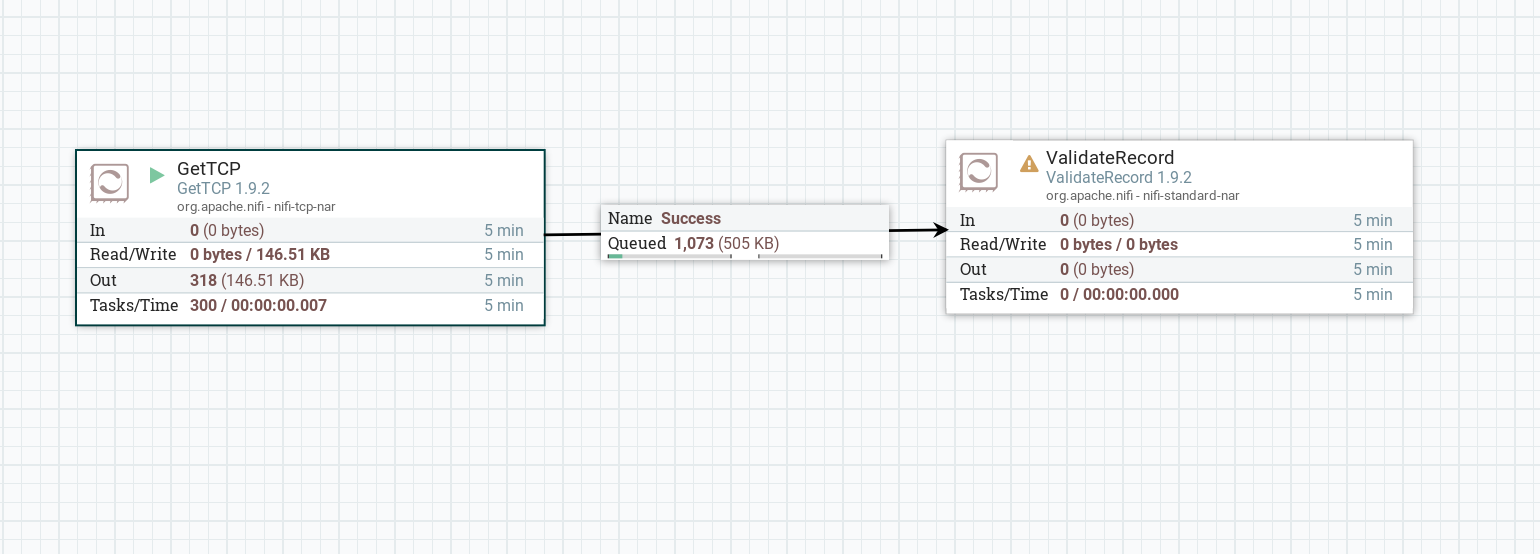
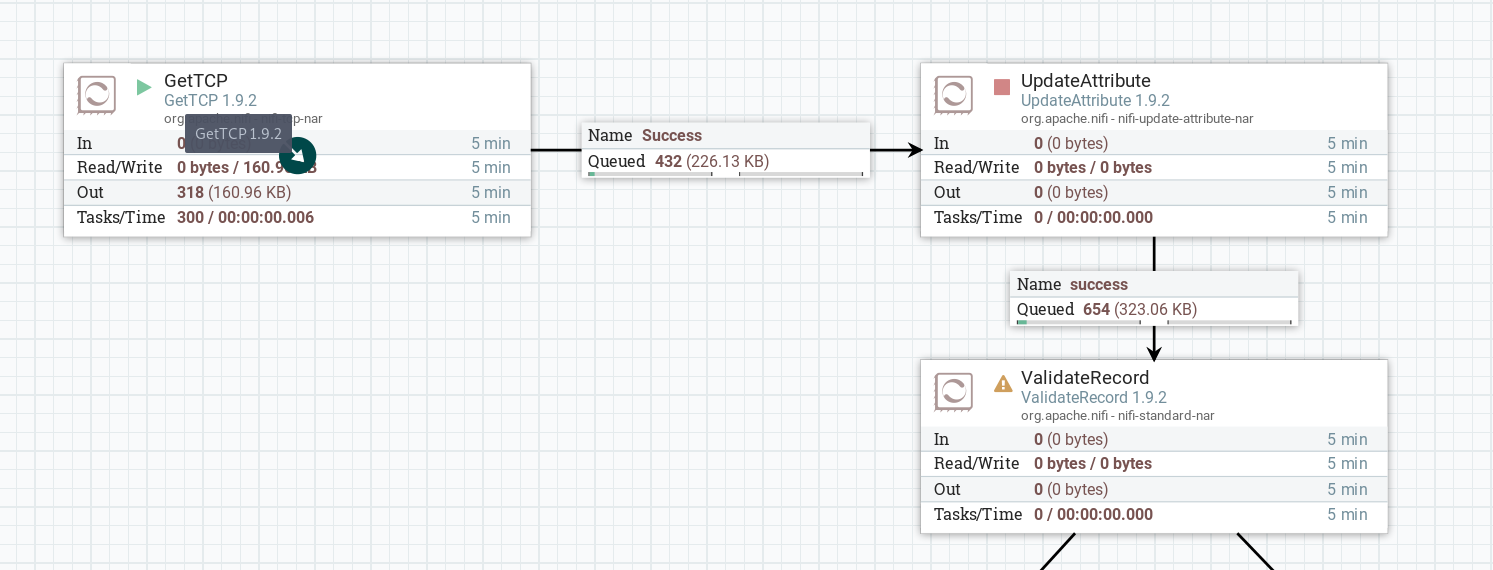
Update README

Changed region(s): [[0.0308, 0.0921, 0.9243, 1.0], [0.6778, 0.9819, 0.7086, 1.0]]

diff --git a/nifi-kafka-dev/README.md b/nifi-kafka-dev/README.md
@@ -24,7 +24,7 @@ Before you can start the lab, you have to complete the NiFi+Kafka install from t
    2. Create a `GetTCP` processor to read data from the socket
       1. Properties: `Endpoint List = localhost:SOCKER_PORT`, `End of message delimiter byte = 10`
       2. Settings: `Automatically terminate relationships = Partial`
-   3. Create a `ValidateRecord` processor
-   4. Link the `GetTCP` `Success` relationship to the `ValidateRecord` processor
+   3. Create a `UpdateAttribute` and a `ValidateRecord` processor
+   4. Link the `GetTCP` `Success` relationship to the `UpdateAttribute` processor
    5. Start the `GetTCP` processor, FlowFiles should start queuing in the `Success` queue
    ![Dataflow v1](images/dataflow-v1.png)
